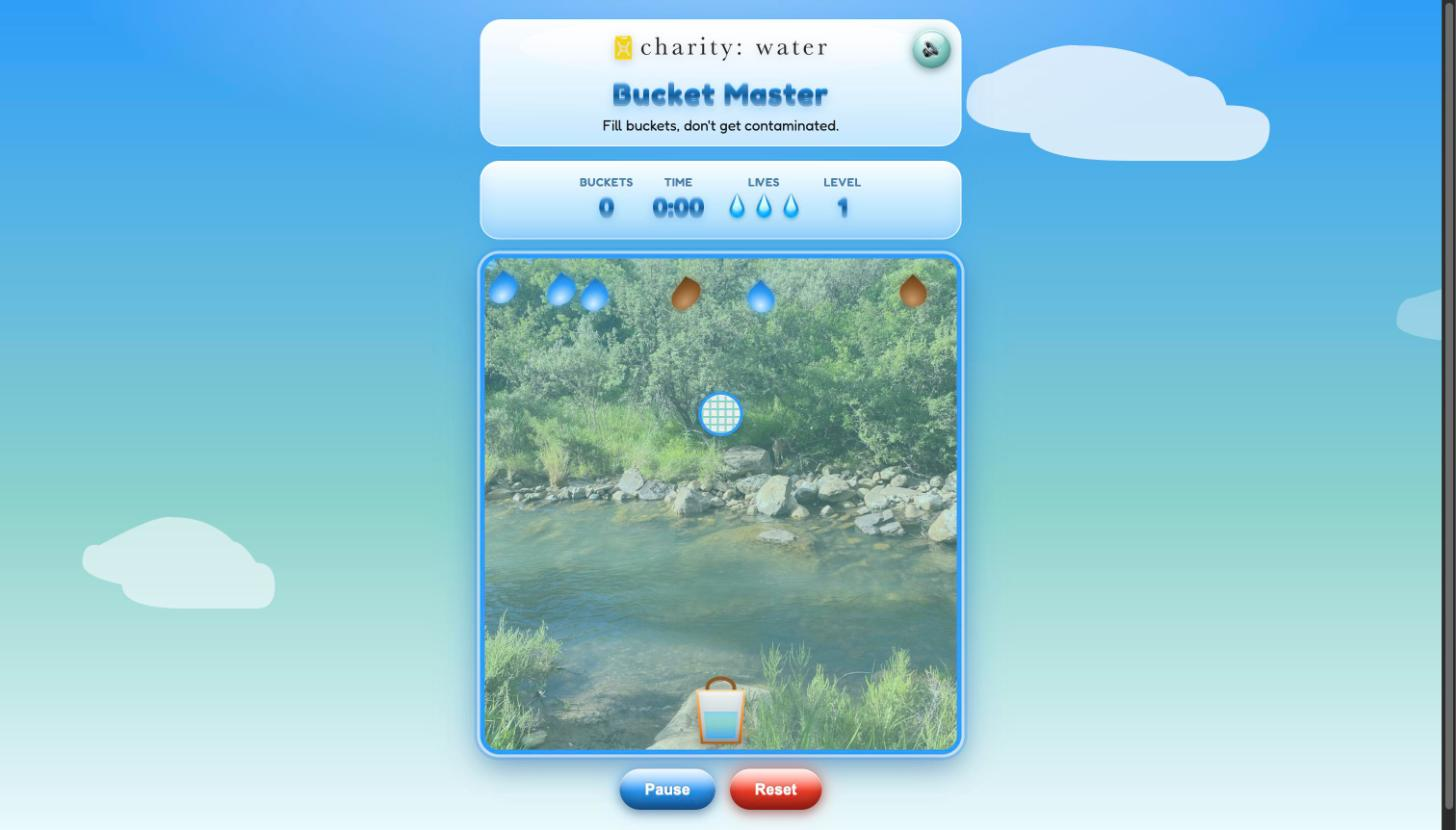
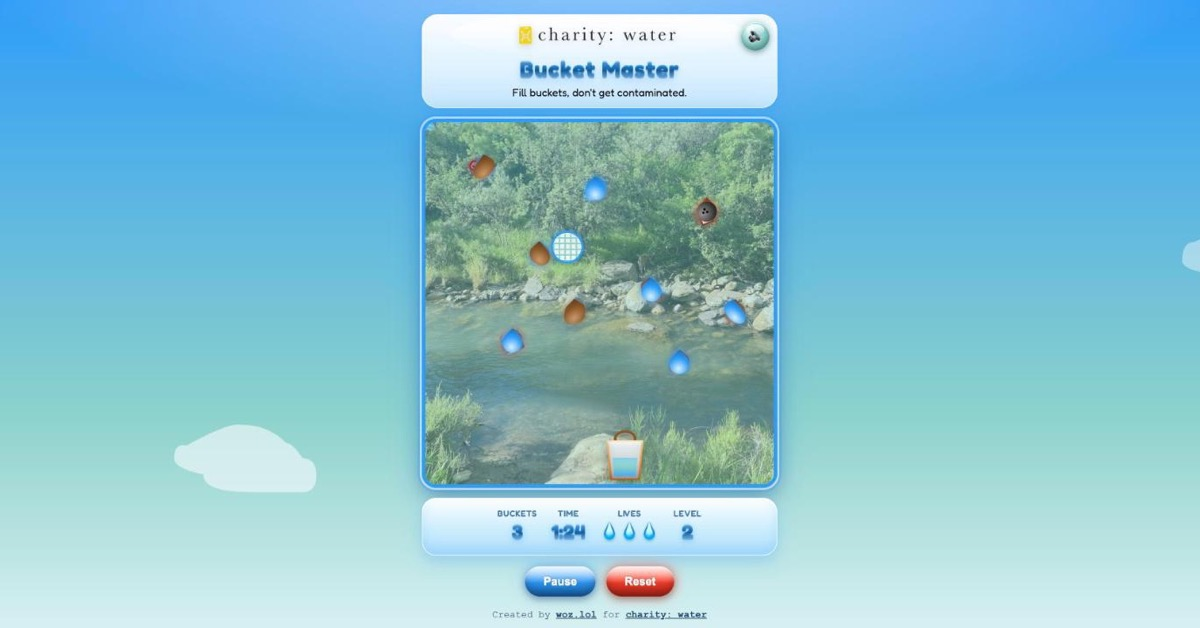
Open Graph: fresh gameplay screenshot, 106-char description, absolute image URLs

Changed region(s): [[0.3083, 0.0, 0.8942, 0.9984], [0.9558, 0.0, 1.0, 1.0], [0.0308, 0.6051, 0.2775, 0.7866]]

diff --git a/index.html b/index.html
@@ -4,26 +4,33 @@
     <meta charset="UTF-8">
     <meta name="viewport" content="width=device-width, initial-scale=1.0">
     <title>Bucket Master | charity: water Game Prototype</title>
-    <meta name="description" content="Fill buckets with clean water, dodge trash and contamination, and race up the scoreboard in this charity: water browser game prototype.">
+    <meta name="description" content="Catch clean water, dodge trash and dirty drops, and fill buckets fast in this charity: water browser game.">
 
     <link rel="icon" type="image/png" href="img/water-can-transparent.png">
 
-    <!-- Open Graph -->
+    <!-- Open Graph. Image URLs must be absolute for social crawlers. -->
     <meta property="og:type" content="website">
+    <meta property="og:site_name" content="Bucket Master">
+    <meta property="og:url" content="https://wozlol.github.io/05-charity-water-game-prototype/">
     <meta property="og:title" content="Bucket Master | charity: water Game Prototype">
-    <meta property="og:description" content="Fill buckets with clean water, dodge trash and contamination, and race up the scoreboard in this charity: water browser game prototype.">
-    <meta property="og:image" content="img/og-screenshot.jpg">
+    <meta property="og:description" content="Catch clean water, dodge trash and dirty drops, and fill buckets fast in this charity: water browser game.">
+    <meta property="og:image" content="https://wozlol.github.io/05-charity-water-game-prototype/img/og-screenshot.jpg">
+    <meta property="og:image:type" content="image/jpeg">
+    <meta property="og:image:width" content="1200">
+    <meta property="og:image:height" content="628">
+    <meta property="og:image:alt" content="Bucket Master gameplay: a bucket catching clean water drops while dodging trash">
 
     <!-- Twitter -->
     <meta name="twitter:card" content="summary_large_image">
     <meta name="twitter:title" content="Bucket Master | charity: water Game Prototype">
-    <meta name="twitter:description" content="Fill buckets with clean water, dodge trash and contamination, and race up the scoreboard in this charity: water browser game prototype.">
-    <meta name="twitter:image" content="img/og-screenshot.jpg">
+    <meta name="twitter:description" content="Catch clean water, dodge trash and dirty drops, and fill buckets fast in this charity: water browser game.">
+    <meta name="twitter:image" content="https://wozlol.github.io/05-charity-water-game-prototype/img/og-screenshot.jpg">
+    <meta name="twitter:image:alt" content="Bucket Master gameplay: a bucket catching clean water drops while dodging trash">
 
     <link rel="preconnect" href="https://fonts.googleapis.com">
     <link rel="preconnect" href="https://fonts.gstatic.com" crossorigin>
     <link href="https://fonts.googleapis.com/css2?family=Fredoka:wght@400;600;700&display=swap" rel="stylesheet">
-    <link rel="stylesheet" href="styles.css?v=20261021092418">
+    <link rel="stylesheet" href="styles.css?v=20261021093617">
 </head>
 <body>
 
@@ -148,7 +155,7 @@
     <!-- A visible build marker, bumped on every change, so it's always
          obvious whether the browser is actually showing current code or
          a cached copy -- independent of judging any visual detail. -->
-    <p id="build-marker" style="position: fixed; bottom: 2px; right: 6px; font-size: 10px; color: rgba(0, 0, 0, 0.35); margin: 0; z-index: 9999; font-family: monospace; pointer-events: none;">build 2026-10-21 09:24:18</p>
+    <p id="build-marker" style="position: fixed; bottom: 2px; right: 6px; font-size: 10px; color: rgba(0, 0, 0, 0.35); margin: 0; z-index: 9999; font-family: monospace; pointer-events: none;">build 2026-10-21 09:36:17</p>
 
     <script src="script.js?v=20261021092418"></script>
 </body>

diff --git a/debug-trash.html b/debug-trash.html
@@ -7,7 +7,7 @@
     <!-- Not linked from the game. Reuses styles.css directly so this view
          always matches whatever the drop/obstacle shapes currently look
          like, with no separate copy to keep in sync. -->
-    <link rel="stylesheet" href="styles.css?v=20261021092418">
+    <link rel="stylesheet" href="styles.css?v=20261021093617">
     <style>
         body {
             padding: 30px 16px 60px;
@@ -54,7 +54,7 @@
     <h1>Trash &amp; Drop Debug View</h1>
     <p>Every drop type and obstacle variant, for visual QA. Not linked from the game itself.</p>
     <div id="grid"></div>
-    <p id="build-marker" style="position: fixed; bottom: 2px; right: 6px; font-size: 10px; color: rgba(0, 0, 0, 0.45); margin: 0; font-family: monospace;">build 2026-10-21 09:24:18</p>
+    <p id="build-marker" style="position: fixed; bottom: 2px; right: 6px; font-size: 10px; color: rgba(0, 0, 0, 0.45); margin: 0; font-family: monospace;">build 2026-10-21 09:36:17</p>
 
     <script>
         var types = [
